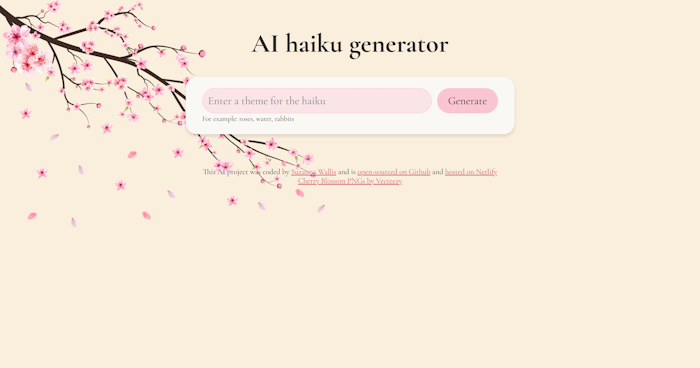
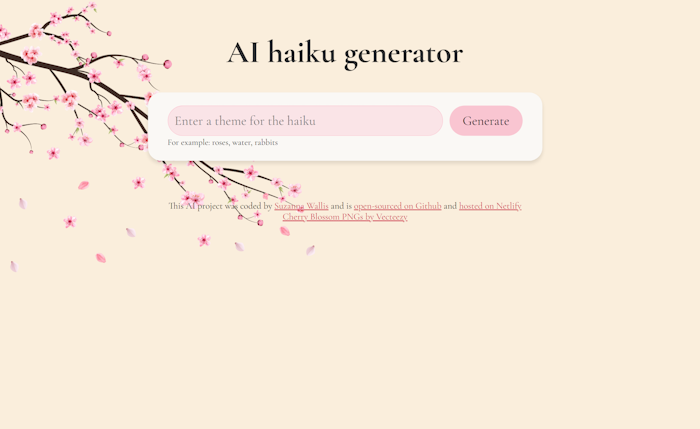
Updated links, titles and descriptions

diff --git a/work.html b/work.html
@@ -5,8 +5,7 @@
     <meta charset="utf-8">
     <meta name="viewport" content="width=device-width, initial-scale=1">
     <title>Portfolio | Suzanna Wallis - Digital Content Design & Front-End Projects</title>
-    <meta name="description">
-    content="A showcase of my digital projects — from accessible content design to front-end builds. Real-world work
+    <meta name="description" content="A showcase of my digital projects — from accessible content design to front-end builds. Real-world work
     that balances creativity and clarity." />
 
     <link href="https://cdn.jsdelivr.net/npm/bootstrap@5.3.7/dist/css/bootstrap.min.css" rel="stylesheet"
@@ -16,7 +15,6 @@
     <link
         href="https://fonts.googleapis.com/css2?family=Open+Sans:ital,wght@0,300..800;1,300..800&family=Poppins:ital,wght@0,400;0,700;1,400&display=swap"
         rel="stylesheet">
-    <link rel="stylesheet" href="https://cdnjs.cloudflare.com/ajax/libs/font-awesome/5.15.3/css/all.min.css" />
     <link rel="stylesheet" href="css/styles.css">
 
     <script src="https://kit.fontawesome.com/4c766927c3.js" crossorigin="anonymous"></script>
@@ -30,11 +28,10 @@
                 <li><a href="index.html">Home</a></li>
                 <li><a href="about.html">About me</a></li>
                 <li><a href="work.html">My work</a></li>
-                <li><a href="contact.html" class="btn btn-primary">Contact me</a></li>
+                <li><a href="#contact" class="btn btn-primary">Contact me</a></li>
             </ul>
         </div>
     </nav>
-
     <div class="content-container container">
         <div class="content">
             <div class="row">
@@ -52,27 +49,26 @@
                     <img src="images/haiku-fullscreen.png" class="img-fluid " alt="Haiku Generator Screenshot">
                 </div>
                 <div class="col-sm-6 ">
-                    <h3>Haiku Generator</h3>
+                    <h3 id="haiku">Haiku Generator</h3>
                     <p>Generate a random haiku in seconds — elegant code, poetic
                         results.
                     </p>
                     <p>I built a simple app that uses AI to generate haikus based on user input. Users type in their
-                        own prompts, and the app
-                        creates personalized poems instantly.
-                    </p>
-                    <p> This project taught me how to work with AI services, handle user input, and update the page
-                        smoothly with new
-                        content—all while keeping the experience easy and fun.
+                        own prompts, and the app creates personalized poems instantly.
+                        This project taught me how to work with AI services, handle user input, and update the page
+                        smoothly with new content—all while keeping the experience easy and fun.
                     </p>
 
-                    <div class="tech-icons mb-3">
+                    <div class="tech-icons mb-3  text-center">
                         <i class="fab fa-html5 fa-2x me-3 text-html"></i>
                         <i class="fab fa-css3-alt fa-2x me-3 text-css"></i>
                         <i class="fab fa-js fa-2x text-js"></i>
 
                     </div>
-
-                    <a href="#" class="btn btn-outline">Go to project</a>
+                    <div class="project-buttons">
+                        <a href="https://app.netlify.com/projects/haiku-by-suzanna/overview" class="btn btn-outline"
+                            target="_blank">Go to project</a>
+                    </div>
                 </div>
             </div>
             <div class="row mb-5">
@@ -80,25 +76,28 @@
                     <img src="images/weather-fullscreen.png" class="img-fluid " alt="Weather App Screenshot">
                 </div>
                 <div class="col-sm-6 ">
-                    <h3>Weather App</h3>
-                    <p>Generate a random haiku in seconds — elegant code, poetic
-                        results.
+                    <h3 id="weather">Weather App</h3>
+                    <p>A real-time weather app with location-based forecasts and a stylish UI
                     </p>
                     <p>This app shows the current date and time for multiple cities in different time zones. Users can
-                        select from a list of locations, and it also detects and displays the user’s local time
-                        automatically. I learned how to work with APIs, handle time zones, and update the page
-                        dynamically based on user choices, all while keeping the interface simple and clear.
+                        select from a list of
+                        locations, and it also detects and displays the user’s local time automatically. I learned how
+                        to work with APIs, handle
+                        time zones, and update the page dynamically based on user choices, all while keeping the
+                        interface simple and clear.
                     </p>
 
 
-                    <div class="tech-icons mb-3">
+                    <div class="tech-icons mb-3 text-center">
                         <i class="fab fa-html5 fa-2x me-3 text-html"></i>
                         <i class="fab fa-css3-alt fa-2x me-3 text-css"></i>
                         <i class="fab fa-js fa-2x text-js"></i>
 
                     </div>
-
-                    <a href="#" class="btn btn-outline">Go to project</a>
+                    <div class="project-buttons">
+                        <a href="https://app.netlify.com/projects/weather-by-suzanna/overview" class="btn btn-outline"
+                            target="_blank">Go to project</a>
+                    </div>
                 </div>
             </div>
             <div class="row mb-5">
@@ -106,25 +105,26 @@
                     <img src="images/worldclock-fullscreen.png" class="img-fluid " alt="World Clock Screenshot">
                 </div>
                 <div class="col-sm-6 ">
-                    <h3>World Clock</h3>
-                    <p>Generate a random haiku in seconds — elegant code, poetic
-                        results.
+                    <h3 id="clock">World Clock</h3>
+                    <p>Check the time anywhere on Earth with a sleek multi-timezone interface.
                     </p>
                     <p>This project displays the current time across multiple time zones, letting users switch between
-                        cities easily. It also
-                        detects the user’s local time and updates everything in real-time. I learned how to work with
-                        time zone data, keep the
-                        clock accurate, and build a responsive interface that updates smoothly without page reloads.
+                        cities easily. It also detects the user’s local time and updates everything in real-time. I
+                        learned how to work with time zone data, keep the clock accurate, and build a responsive
+                        interface that updates smoothly
+                        without page reloads.
                     </p>
 
-                    <div class="tech-icons mb-3">
+                    <div class="tech-icons mb-3 text-center text-center">
                         <i class="fab fa-html5 fa-2x me-3 text-html"></i>
                         <i class="fab fa-css3-alt fa-2x me-3 text-css"></i>
                         <i class="fab fa-js fa-2x text-js"></i>
 
                     </div>
-
-                    <a href="#" class="btn btn-outline">Go to project</a>
+                    <div class="project-buttons">
+                        <a href="https://app.netlify.com/projects/worldclock-by-suzanna/overview"
+                            class="btn btn-outline" target="_blank">Go to project</a>
+                    </div>
                 </div>
             </div>
 

diff --git a/index.html b/index.html
@@ -5,8 +5,8 @@
     <meta charset="utf-8">
     <meta name="viewport" content="width=device-width, initial-scale=1">
     <title>Suzanna Wallis | Digital Content Designer & Front-End Developer</title>
-    <meta name="description"> content="Digital content designer and front-end developer creating clean, user-friendly
-    websites with a strong UX focus. Based in the UK, open to freelance and contract work. />
+    <meta name="description" content="Digital content designer and front-end developer creating clean, user-friendly
+    websites with a strong UX focus. Based in the UK, open to freelance and contract work." />
     <link href=" https://cdn.jsdelivr.net/npm/bootstrap@5.3.7/dist/css/bootstrap.min.css" rel="stylesheet"
         integrity="sha384-LN+7fdVzj6u52u30Kp6M/trliBMCMKTyK833zpbD+pXdCLuTusPj697FH4R/5mcr" crossorigin="anonymous">
     <link rel="preconnect" href="https://fonts.googleapis.com">
@@ -44,11 +44,11 @@
             <div class="col-sm">
 
                 <div class="card">
-                    <img src="images/haiku.png" class="card-img-top d-none d-md-block" alt="...">
+                    <img src="images/haiku.png" class="card-img-top d-none d-md-block" alt="Haiku generator preview">
                     <div class="card-body">
                         <h3 class="card-title">Haiku generator</h3>
                         <p class="card-text">Generate a random haiku in seconds — elegant code, poetic results.</p>
-                        <a href="#" class="btn btn-outline">Go to project</a>
+                        <a href="work.html#haiku" class="btn btn-outline">Go to project</a>
                     </div>
                 </div>
 
@@ -56,11 +56,11 @@
             <div class="col-sm">
 
                 <div class="card">
-                    <img src="images/clock.png" class="card-img-top d-none d-lg-block" alt="...">
+                    <img src="images/clock.png" class="card-img-top d-none d-lg-block" alt="World Clock preview">
                     <div class="card-body">
                         <h3 class="card-title">World Clock</h3>
                         <p class="card-text">Check the time anywhere on Earth with a sleek multi-timezone interface.</p>
-                        <a href="#" class="btn btn-outline">Go to project</a>
+                        <a href="work.html#clock" class="btn btn-outline">Go to project</a>
                     </div>
                 </div>
 
@@ -68,19 +68,19 @@
             <div class="col-sm">
 
                 <div class="card">
-                    <img src="images/weather.png" class="card-img-top d-none d-lg-block " alt="...">
+                    <img src="images/weather.png" class="card-img-top d-none d-lg-block " alt="Weather app preview">
                     <div class="card-body">
                         <h3 class="card-title">Weather App</h3>
                         <p class="card-text">A real-time weather app with location-based forecasts and a
                             stylish UI</p>
-                        <a href="#" class="btn btn-outline">Go to project</a>
+                        <a href="work.html#weather" class="btn btn-outline">Go to project</a>
                     </div>
                 </div>
 
             </div>
         </div>
     </div>
-    <div class="container text-center mt-5"><a href=#" class="btn btn-primary">See more projects</a></div>
+    <div class="container text-center mt-5"><a href="work.html" class="btn btn-primary">See all projects</a></div>
 
     <div class="container text-center">
 
@@ -143,17 +143,17 @@
             <h2 id="contact">Want to work together?</h2>
             <h3>Get in touch!</h3>
             <p>
-                <a href="mailto:hello@suzannawallis.co.uk" class="footer-email">
-                    <i class="fas fa-envelope"></i> hello@suzannawallis.co.uk
+                <a href="mailto:hello@suzannawallis.co.uk" class="footer-email" title="Email Suzanna">
+                    <i class="fa-regular fa-paper-plane fa-beat-fade"></i> hello@suzannawallis.co.uk
                 </a>
             </p>
 
             <div class="footer-icons">
 
-                <a href="https://linkedin.com/in/suzannawallis" target="_blank" aria-label="LinkedIn">
+                <a href="https://linkedin.com/in/suzannawallis" target="_blank" aria-label="LinkedIn" title="LinkedIn">
                     <i class="fab fa-linkedin"></i>
                 </a>
-                <a href="https://github.com/SuzannaW-web" target="_blank" aria-label="GitHub">
+                <a href="https://github.com/SuzannaW-web" target="_blank" aria-label="GitHub" title="GitHub">
                     <i class="fab fa-github"></i>
                 </a>
                 </a>

diff --git a/about.html b/about.html
@@ -5,8 +5,8 @@
     <meta charset="utf-8">
     <meta name="viewport" content="width=device-width, initial-scale=1">
     <title>About Me | Suzanna Wallis – Content-First, Code-Comfortable</title>
-    <meta name="description"> content="I'm Suzanna — a content designer turned front-end developer. I bring clarity,
-    structure and a human voice to digital projects. />
+    <meta name="description" content="I'm Suzanna — a content designer turned front-end developer. I bring clarity,
+    structure and a human voice to digital projects." />
 
     <link href=" https://cdn.jsdelivr.net/npm/bootstrap@5.3.7/dist/css/bootstrap.min.css" rel="stylesheet"
         integrity="sha384-LN+7fdVzj6u52u30Kp6M/trliBMCMKTyK833zpbD+pXdCLuTusPj697FH4R/5mcr" crossorigin="anonymous">
@@ -15,7 +15,6 @@
     <link
         href="https://fonts.googleapis.com/css2?family=Open+Sans:ital,wght@0,300..800;1,300..800&family=Poppins:ital,wght@0,400;0,700;1,400&display=swap"
         rel="stylesheet">
-    <link rel="stylesheet" href="https://cdnjs.cloudflare.com/ajax/libs/font-awesome/5.15.3/css/all.min.css" />
     <link rel="stylesheet" href="css/styles.css">
 
     <script src="https://kit.fontawesome.com/4c766927c3.js" crossorigin="anonymous"></script>
@@ -29,7 +28,7 @@
                 <li><a href="index.html">Home</a></li>
                 <li><a href="about.html">About me</a></li>
                 <li><a href="work.html">My work</a></li>
-                <li><a href="contact.html" class="btn btn-primary">Contact me</a></li>
+                <li><a href="#contact" class="btn btn-primary">Contact me</a></li>
             </ul>
         </div>
     </nav>
@@ -49,7 +48,8 @@
                     <p> This project is part of my journey into development, where I’m learning to combine words,
                         design, and code to build
                         better digital experiences. </i></p>
-                    <div class="container text-center mt-5"><a href=#" class="btn btn-primary">See my projects</a></div>
+                    <div class="container text-center mt-5"><a href="work.html" class="btn btn-primary">See my
+                            projects</a></div>
 
                 </div>
                 <div class="col-sm-4"><img src="images/selfie.png" class="profile-image img-fluid"

diff --git a/css/styles.css b/css/styles.css
@@ -59,7 +59,7 @@ body {
 }
 
 .content-container {
-  padding: 120px 20px;
+  padding: 60px 20px;
 }
 
 .content-container h1 {
@@ -82,7 +82,7 @@ body {
 }
 
 .btn-outline {
-  background-color: transparent;
+  background-color: white;
   border: 1px solid var(--primary-color);
   border-radius: 20px;
 
@@ -95,6 +95,14 @@ body {
   background-color: var(--secondary-color);
   color: black;
   border-color: var(--secondary-color);
+}
+
+.project-buttons {
+  display: flex;
+  justify-content: center;
+}
+.card-body {
+  background-color: #66bfbf17;
 }
 
 .profile-image {
@@ -120,7 +128,7 @@ body {
 
 footer {
   background-color: var(--secondary-color);
-  padding: 60px 20px;
+  padding: 20px;
   text-align: center;
   width: 100%;
 }
